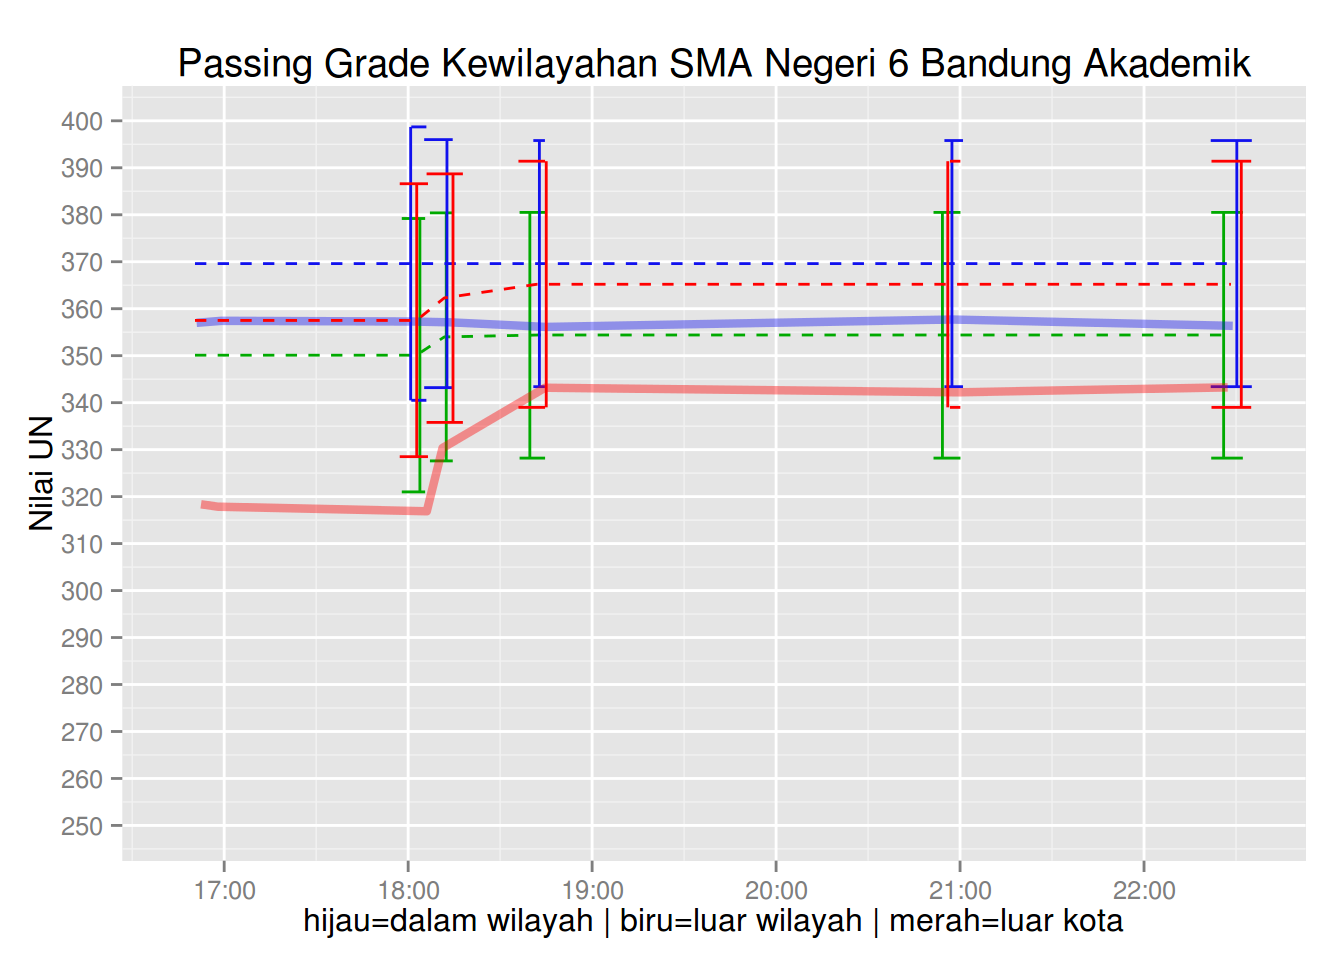
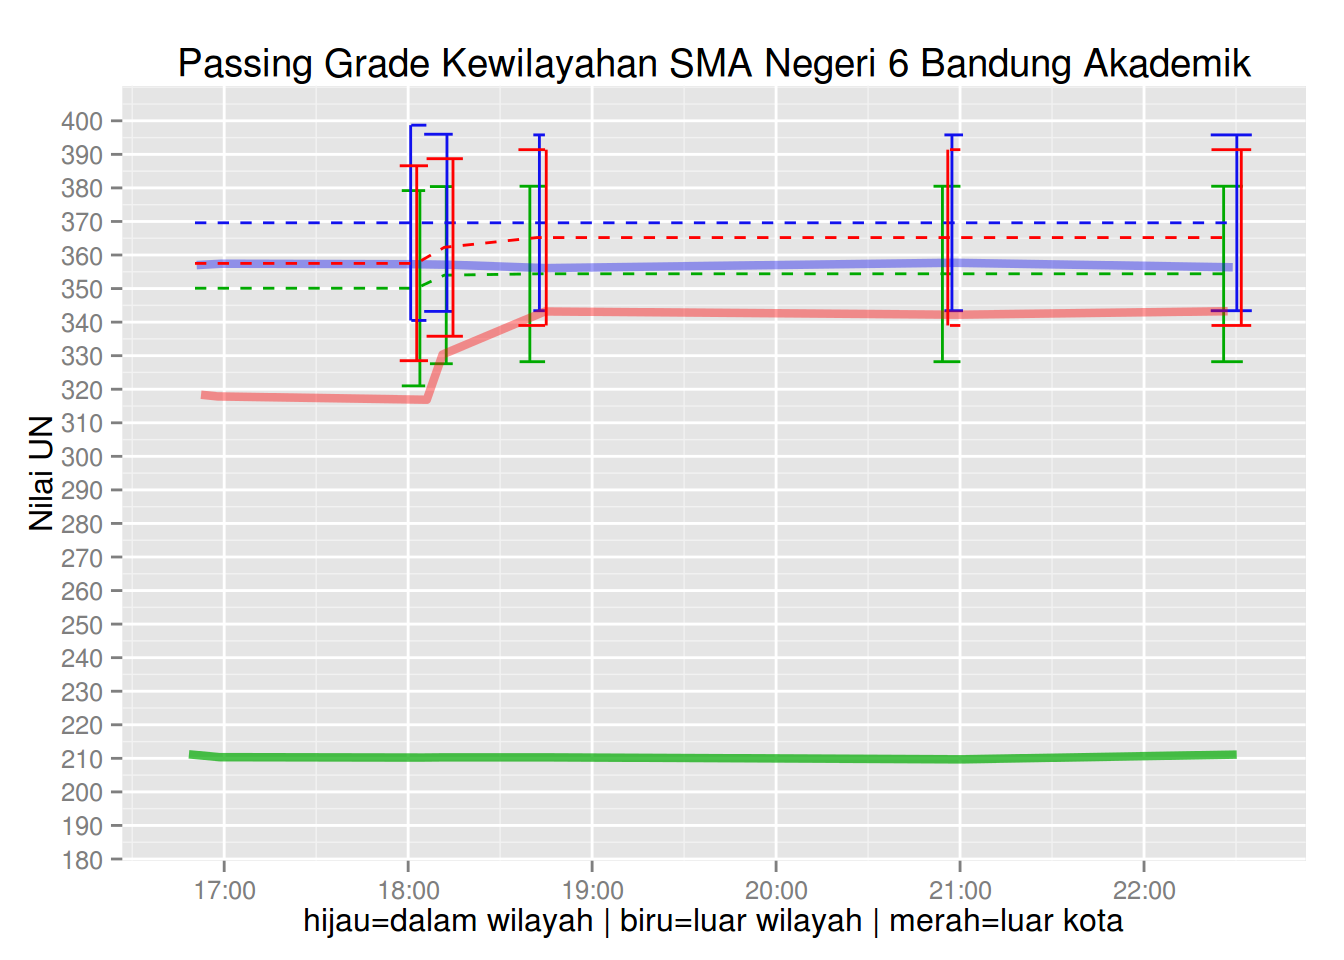
increase range

Changed region(s): [[0.0312, 0.125, 0.9688, 0.9062], [0.125, 0.7812, 0.9375, 0.8125]]

diff --git a/filtered-ppdb-sma-kotabandung-2015.html b/filtered-ppdb-sma-kotabandung-2015.html
@@ -140,7 +140,7 @@ plot_pg &lt;- function(option_id, name) {
   df &lt;- fetch(rs, n=-1)
   df &lt;- df[!is.na(df$pg_dw),]
   plot &lt;- ggplot(df, aes(x=snapshottime, y=pg_dw)) +
-    scale_y_continuous(name=&#39;Nilai UN&#39;, limits=c(250, 400), breaks=seq(150, 400, by=10)) +
+    scale_y_continuous(name=&#39;Nilai UN&#39;, limits=c(190, 400), breaks=seq(150, 400, by=10)) +
     scale_x_datetime(name=&#39;hijau=dalam wilayah | biru=luar wilayah | merah=luar kota&#39;) +
     geom_errorbar(position=position_jitter(height=0), color=&#39;#00aa00&#39;,
                  aes(ymin=low_dw, ymax=high_dw)) +
